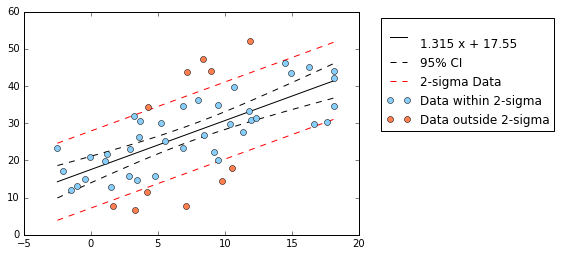
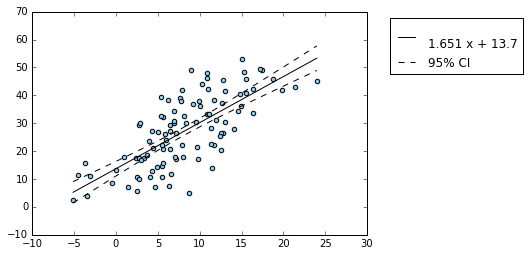
simplified trendline

diff --git a/plot_helpers.py b/plot_helpers.py
@@ -125,7 +125,6 @@ def twod_dist(a, b):
     
     return dist
 
-
 def elbow_point(x_vals, y_vals):
     """
     calculates the elbow point of a plot by finding the point furthest 
@@ -163,94 +162,17 @@ def elbow_point(x_vals, y_vals):
             elbow_idx = i
     return elbow_idx
 
-def calculate_stddev_lines(x, y, sigma=2):
-    """
-    Calculates the vertical distance from a linear regression that 
-    encompasses a certain number of standard deviations of the sample 
-    set being modeling
-    
-    Note: Only works for linear regression!
-    
-    Key portion adapted from http://stackoverflow.com/questions/133897/
-        how-do-you-find-a-point-at-a-given-perpendicular-distance-from-
-        a-line
-    
-    Inputs
-    ------
-    x, y:   x and y arrays for the data being modeled
-    sigma:  number of standard deviations
-    
-    Outputs
-    -------
-    std_dy:     an array of same dimensions as x and y that is the 
-                vertical offset from the regression line
-    trend_fn:   np.poly1d() object representing the linear regression of
-                 the data
-    
-    Example Usage
-    -------------
-    std_dy = calculate_stddev_lines(x, y)
-    # data
-    plt.scatter(x, y) 
-    # trendline
-    plt.plot(x, trend_fn(y)) 
-    # std line upper bound
-    plt.plot(x, trend_fn(y)+std_dy, linestyle='--') 
-    # std line lower bound 
-    plt.plot(x, trend_fn(y)-std_dy, linestyle='--') 
-    plt.show()
-    """
-    p = np.polyfit(x, y, 1)
-    trend_fn = np.poly1d(p)
-    
-    minidx = np.where(x == x.min())
-    maxidx = np.where(x == x.max())
-    minx = x[minidx][0]
-    maxx = x[maxidx][0]
-    a = [minx, trend_fn(minx)] # trendline low-left
-    b = [maxx, trend_fn(maxx)] # trendline upper-right
-
-    distances=[]
-    for i, xval in enumerate(x):
-        c = [xval, y[i]]
-        d = calc_perp(a, b, c)
-        distances.append(twod_dist(c, d))
-    distances=np.asarray(distances)
-    davg = distances.mean() # mean distance from points to trendline
-    dstd = distances.std() # standard deviation
-    perp_dxdy = sigma * dstd # perpendicular distance from trendline
-
-    # calculate dy for std
-    # Calculate unit vector perpendicular to trendline
-    tdist = twod_dist(a, b)
-    dx = (a[0] - b[0]) / tdist
-    dy = (a[1] - b[1]) / tdist
-    # a point that is the appropriate perpendicular distance away from 
-    # the beginning of the trendline
-    q = [(a[0] + perp_dxdy*dy), (a[1] - perp_dxdy*dx)]
-
-    # find the vertical distance from point q to the trendline
-    std_dy = abs(q[1] - trend_fn(q[0]))
-    
-    return std_dy, trend_fn
-
-def trendline(x, y, poly=1, confint=False, conf=0.95, sigline=False, sigma=2):
+def trendline(x, y, poly=1, confint=False, conf=0.95):
     """
     Returns trendline coordinates and optionally confidence interval 
-    and/or lines that encompass standard deviation(s) of the data, 
-    and points within and out of these standard deviation bounds. 
 
     The standard deviation lines currently only work for linear 
     regressions.
     
-    Confidence intervals show the confidence of the **fit**, whereas the
-    standard deviation lines show the range around the trendline 
-    encompassing a certain number of standard deviations around the 
-    average data point distance from the trendline
+    Confidence intervals show the confidence of the **fit**
     
     Adapted from:
-    http://stackoverflow.com/questions/28505008/numpy-polyfit-how-to-get
-        -1-sigma-uncertainty-around-the-estimated-curve
+    https://github.com/KirstieJane/STATISTICS/blob/master/CIs_LinearRegression.py
     
     Inputs
     ------
@@ -260,44 +182,25 @@ def trendline(x, y, poly=1, confint=False, conf=0.95, sigline=False, sigma=2):
     confint:    True to get bounds for confidence interval **of the 
                 trendline**
     conf:       what confidence interval you want 
-    sigline:    True to get bounds for lines that encompass standard 
-                deviation(s) **of the data**
-    sigma:      how many standard deviations of error to return
     
     Outputs
     -------
     x:              sorted x values from sample data
     trend_fn:       numpy.poly1d function of the trendline
-    sigma_y_fit:    error of y_fit; returned when err==True
-    within_bounds:  2D array of [x] and [y] arrays corresponding to data
-                    that fall within the error bounds
-    outof_bounds:   2D array of [x] and [y] arrays corresponding to data
-                    that fall outside of the error bounds
     
     Example Usage (linear regression with all bells and whistles)
     -------------
-    xfit, trend_fn, conf_dy, sig_dy, within, without = trendline(x,y, \
-    ci=True, pi=True, sigma=2)
+    xfit, trend_fn, conf_dy = trendline(x, y, confint=True, conf=2)
+    
+    # plot data
+    plt.scatter(x, y, c='lightskyblue')
+
     # plot trendline
     plt.plot(xfit, trend_fn(xfit), color='k') 
 
     # Plot confidence intervals of fit
     plt.plot(xfit, trend_fn(xfit)+conf_dy, color='k', linestyle='--') 
     plt.plot(xfit, trend_fn(xfit)-conf_dy, color='k', linestyle='--') 
-
-    # Plot lines that encompass ~ 95% of data
-    plt.plot(xfit, trend_fn(xfit)-sig_dy, color='r', linestyle='--')
-    plt.plot(xfit, trend_fn(xfit)+sig_dy, color='r', linestyle='--') 
-    
-    # plot data points that fall within or out of the range
-    plt.plot(within[0], within[1], color='lightskyblue', marker='o',
-            linestyle='') # data points within the range
-    plt.plot(without[0], without[1], color='coral', marker='o', 
-            linestyle='') # data points out of the range
-
-    ToDo:
-    [ ] Add ability to calculate stddev lines for higher order 
-        polynomial fits
     """
     # sort the data by x dimension
     sorted_idx = np.argsort(x)
@@ -322,33 +225,6 @@ def trendline(x, y, poly=1, confint=False, conf=0.95, sigline=False, sigma=2):
         tstat = t.ppf(conf, n-1) # find appropriate t value
         s_err = np.sum(np.power(y_err,2)) # sum of the squares of the residuals
 
-        conf_dy = tstat * np.sqrt((s_err/(n-2))*(1.0/n + \
-                (np.power((x-mean_x),2)/
+        conf_dy = tstat * np.sqrt((s_err/(n-2))*(1.0/n + (np.power((x-mean_x),2)/
                 ((np.sum(np.power(x,2)))-n*(np.power(mean_x,2))))))
-    if not sigline:
         return x, trend_fn, conf_dy
-    elif poly == 1:
-        # Calculate dy from curve that encompasses n*sigma of data points
-        # Calculate distance of each datapoint from the fit curve
-        sig_dy, _ = calculate_stddev_lines(x, y, sigma=sigma)
-            
-        # Determine which data points are in or out of bounds
-        within_bounds = []
-        outof_bounds = []
-        for i, xval in enumerate(x):
-            if (y[i] > trend_fn(xval) - sig_dy) and \
-                y[i] < (trend_fn(xval) + sig_dy):
-                within_bounds.append([xval, y[i]])
-            else:
-                outof_bounds.append([xval, y[i]])
-                
-        # transform the arrays
-        within_bounds = np.asarray(within_bounds).T
-        outof_bounds = np.asarray(outof_bounds).T
-        
-        if confint and sigline:
-            return x, trend_fn, conf_dy, sig_dy, within_bounds, outof_bounds
-        else:
-            return x, trend_fn, sig_dy, within_bounds, outof_bounds
-    else:
-        raise RuntimeError('Currently cannot calculate population stdev lines for anything other than linear regression, sorry')
